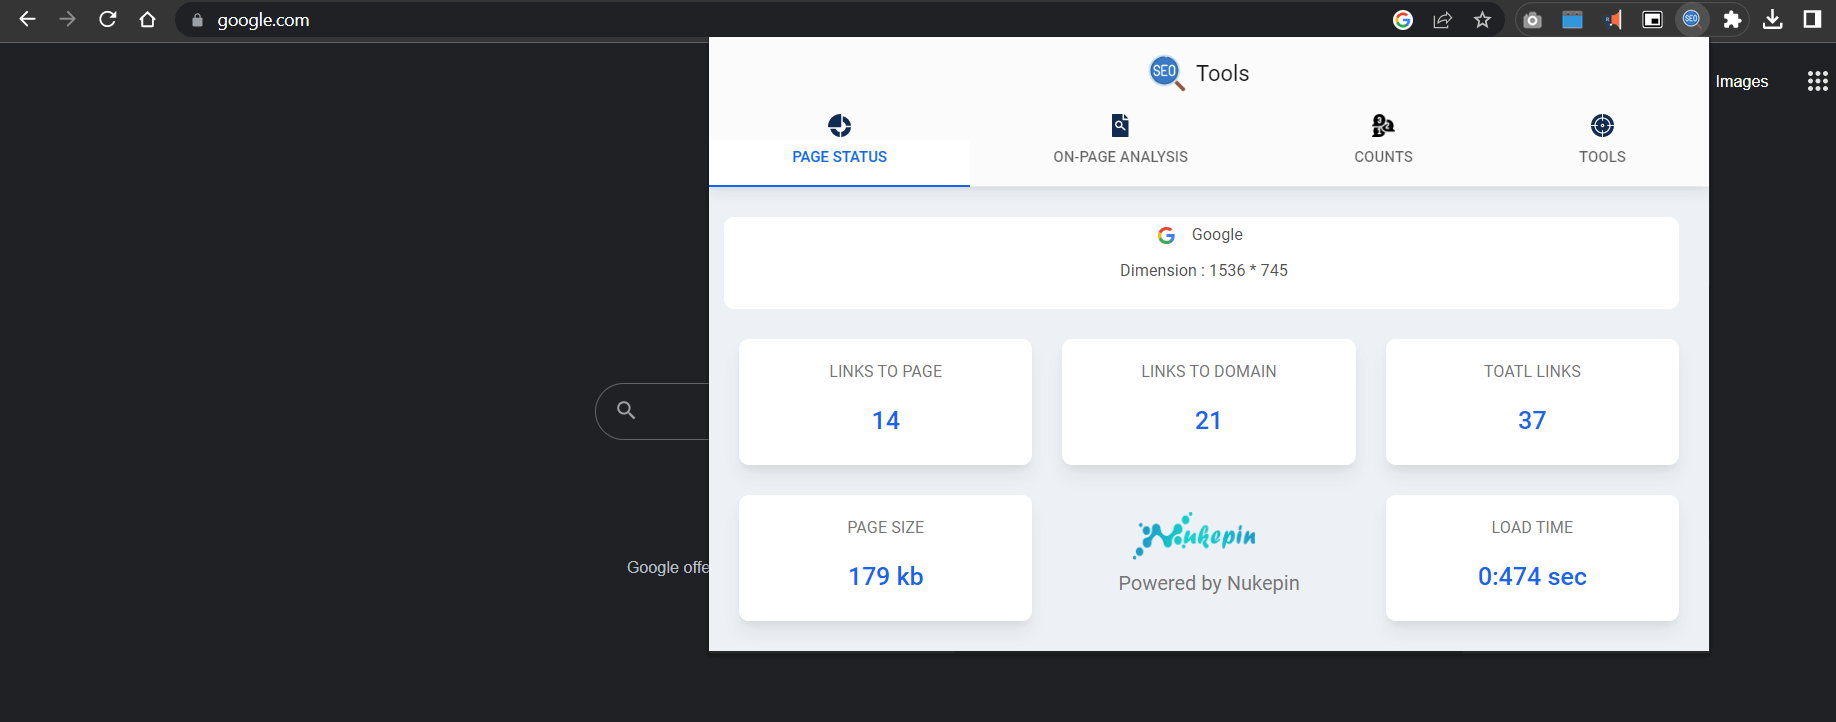
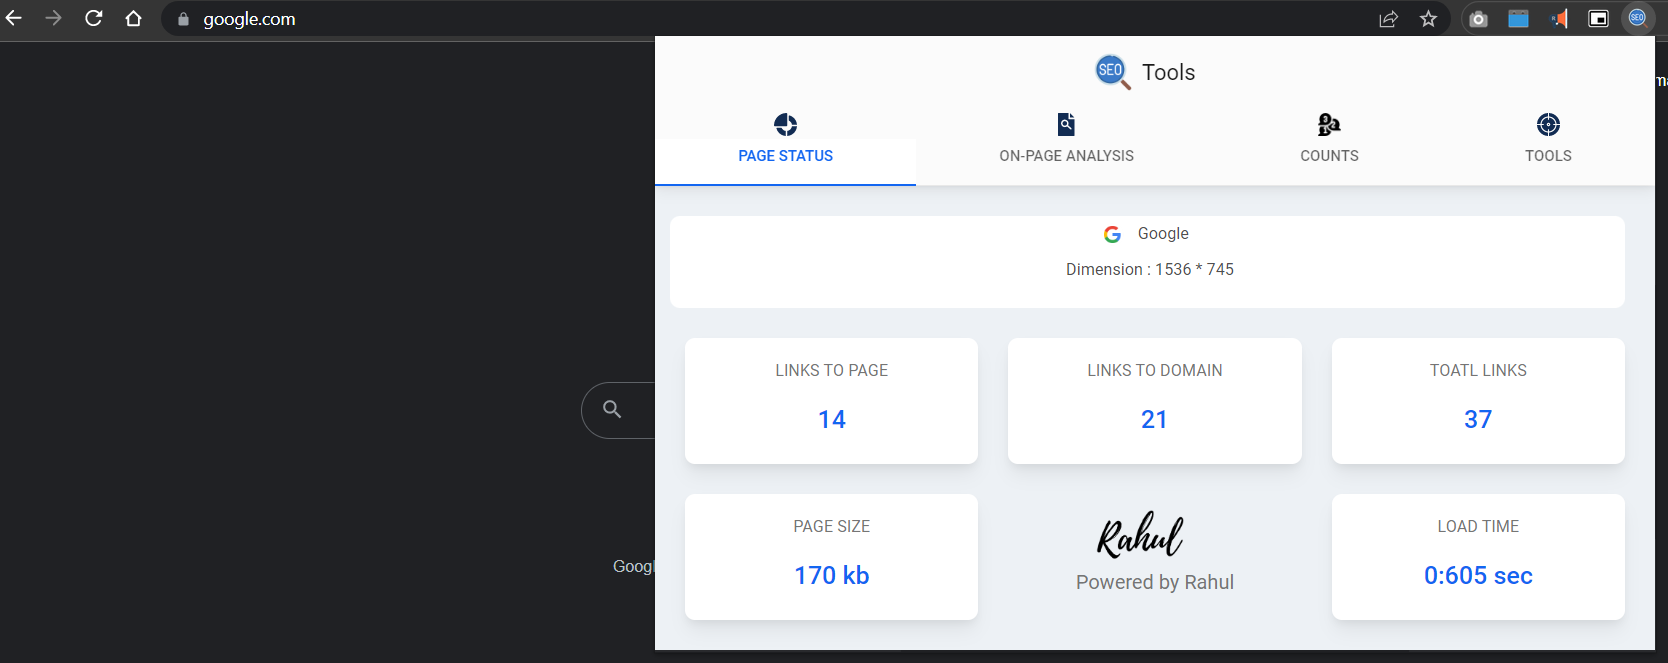
some changes

diff --git a/index.html b/index.html
@@ -124,12 +124,12 @@
 
                         <div class="col-4 justify-content-center text-center">
                             <a class=" navbar-brand justify-content-center mt-2" target="_blank"
-                                href="https://nukepin.com">
-                                <img src="assets/img/nukepin.png" class="me-2" height="40" alt="MDB Logo"
+                                href="rkpassin132.github.com">
+                                <img src="assets/img/my-logo.png" class="me-2" height="40" alt="MDB Logo"
                                     loading="lazy" />
                             </a>
 
-                            <p class="text-muted">Powered by Nukepin</p>
+                            <p class="text-muted">Powered by Rahul</p>
                         </div>
 
                         <div class="col-4">
